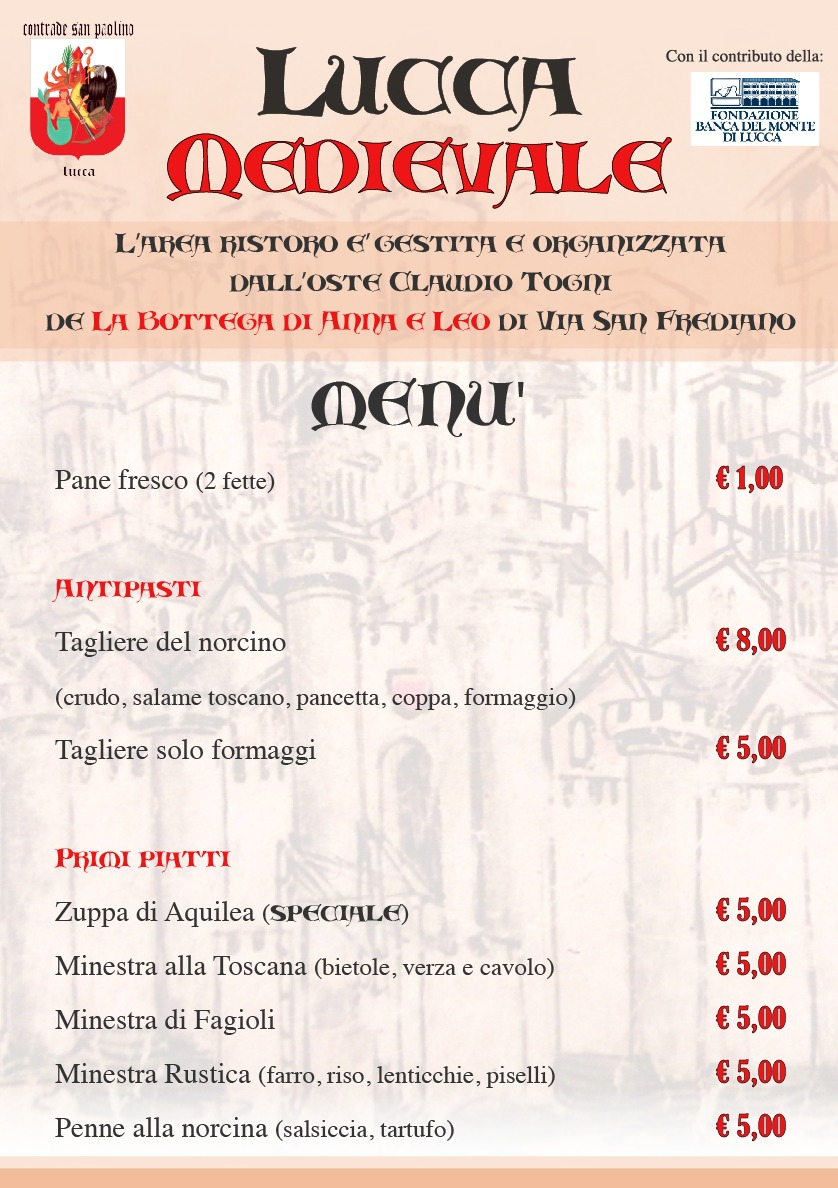
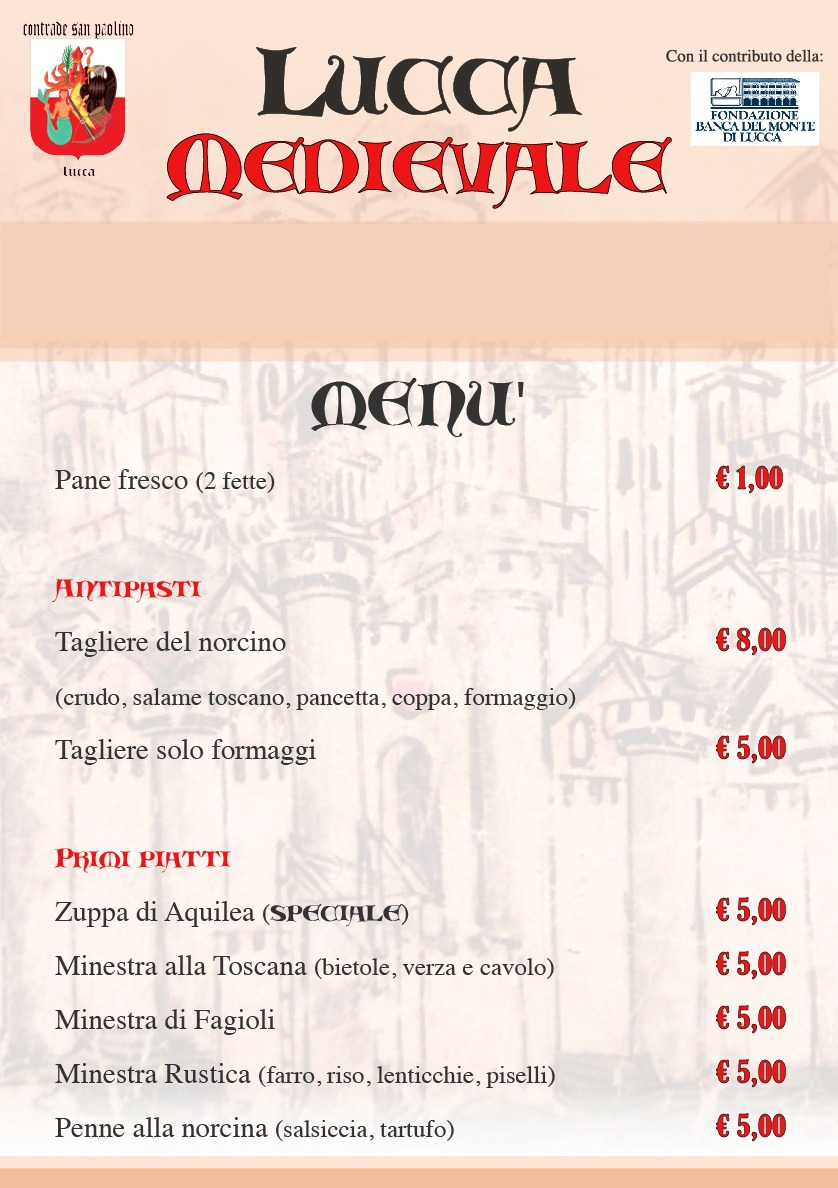
update menu without bottega

Changed region(s): [[0.0621, 0.1869, 0.9618, 0.2803]]

diff --git a/2019.md b/2019.md
@@ -86,7 +86,7 @@ esibizione dei tamburi delle Contrade San Paolino
 
 Ecco le più importanti novità riguardo lo stand gastronomico all'interno della manifestazione:
 
-* Menù rinnovato e gestito dall'oste de [La Bottega di Anna e Leo](https://www.tripadvisor.it/Restaurant_Review-g187898-d7321080-Reviews-La_Bottega_di_Anna_e_Leo-Lucca_Province_of_Lucca_Tuscany.html)
+* Menù completamente rinnovato!
 * La famosa **Zuppa di Aquilea** in trasferta a Lucca Medievale!
 * Piatti, posate e bicchieri 100% biodegradabili
 
